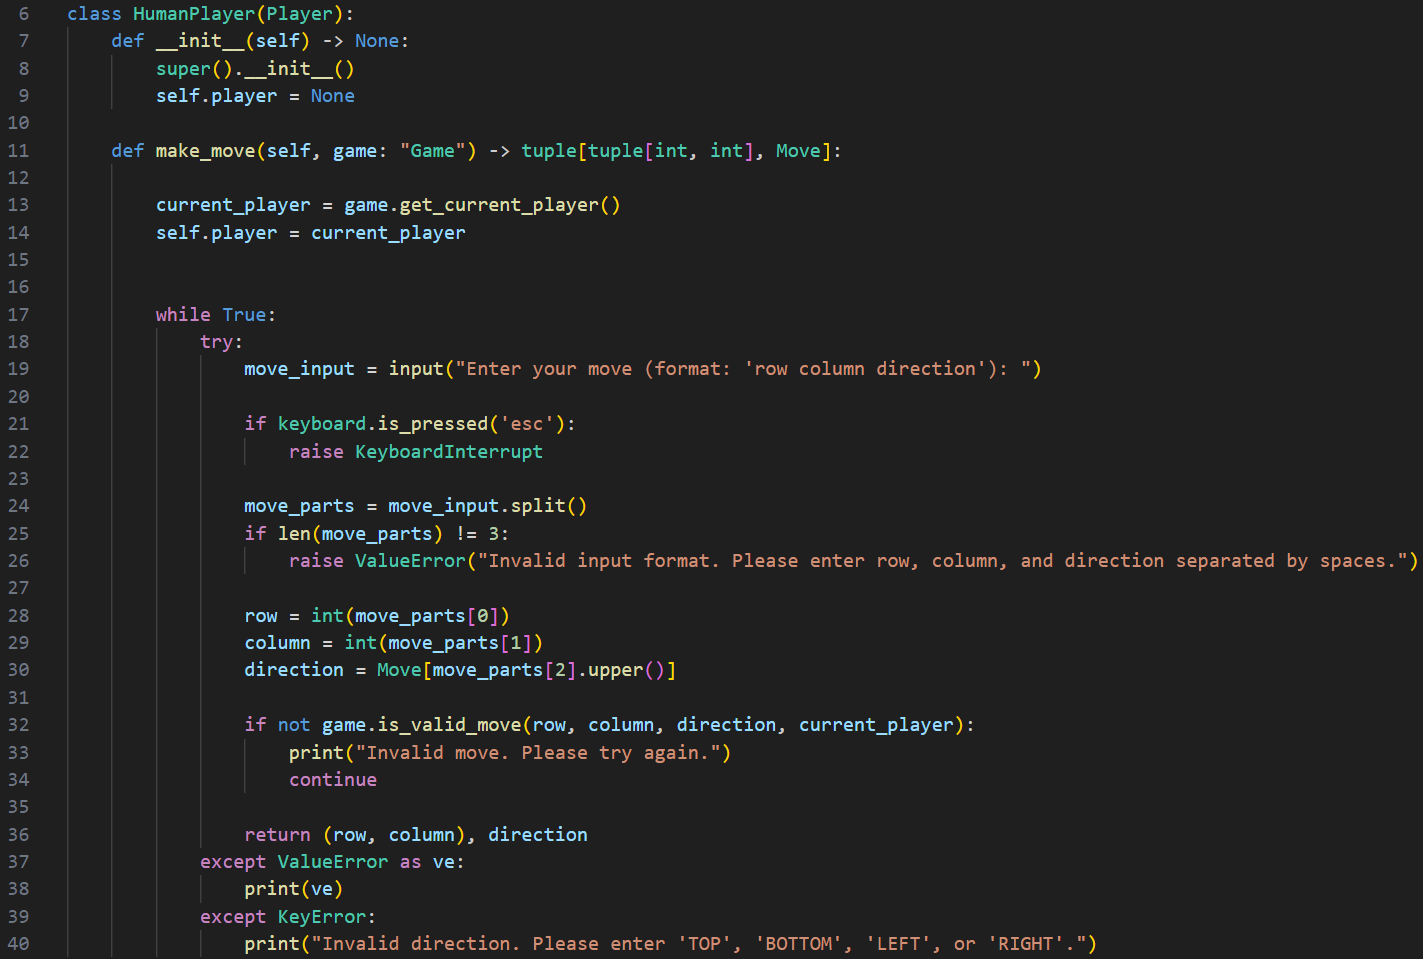
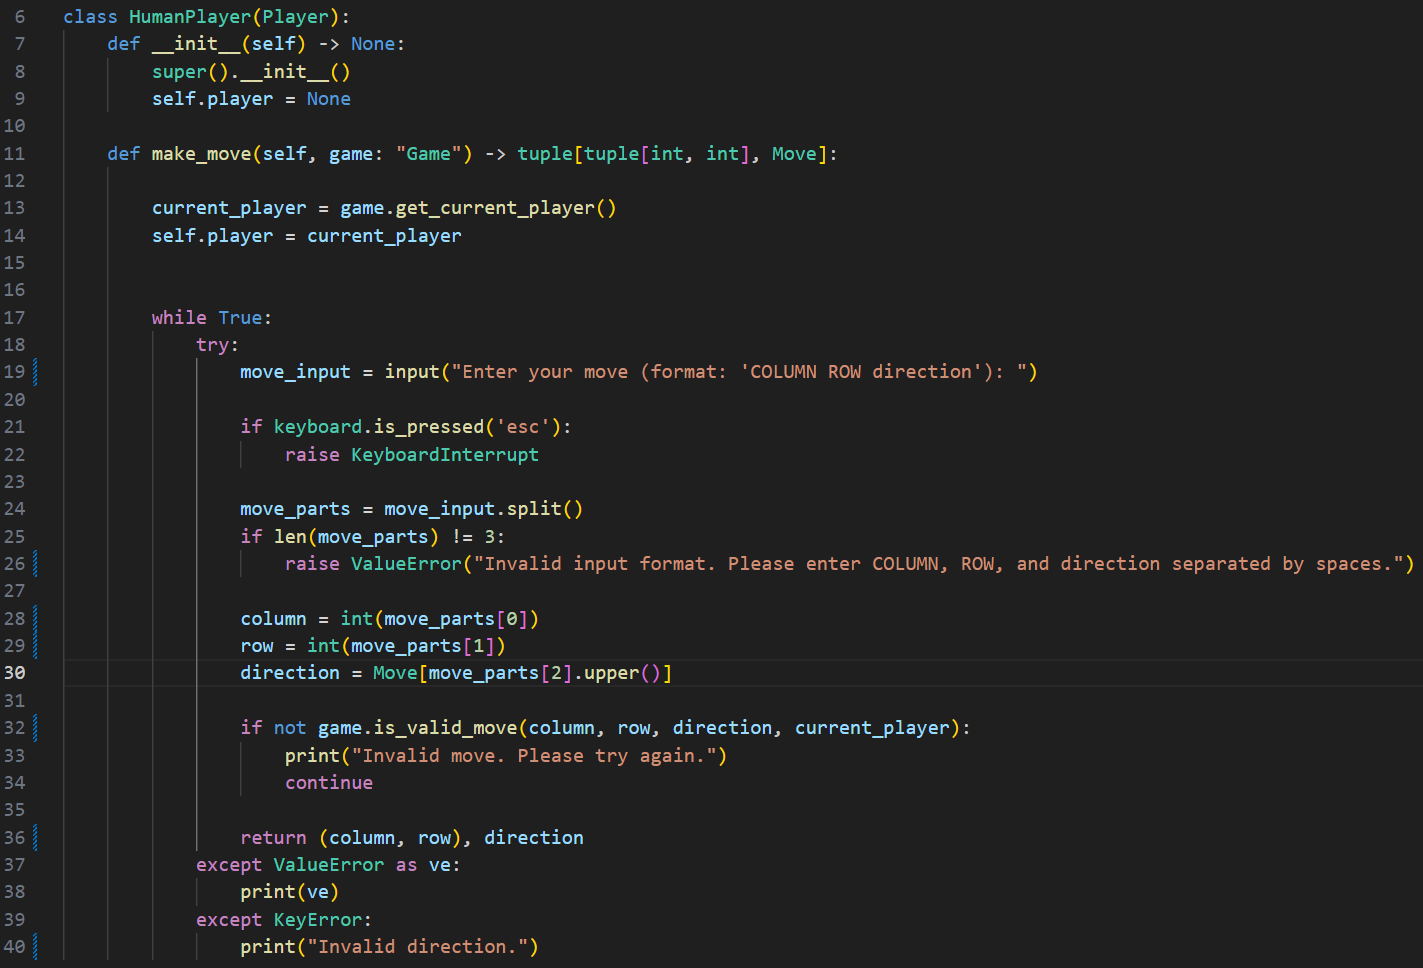
fix interface for playing

diff --git a/QUIXO/game2.py b/QUIXO/game2.py
@@ -2,6 +2,14 @@ from game import Move, Game, Player
 from copy import deepcopy
 from helping_functions import get_all_legal_moves
 
+# ANSI escape codes for colors
+GREEN = '\033[92m'  # Green color
+RED = '\033[91m'  # Red color
+RESET = '\033[0m'  # Reset color to default
+
+X_SYMBOL = 'X'  # X symbol
+O_SYMBOL = 'O'  # O symbol
+
 class Game2(Game):
     def __init__(self, board, current_player) -> None:
         super().__init__()
@@ -16,15 +24,31 @@ class Game2(Game):
         return Game2(board, self.current_player_idx)
     
     def print_board(self):
-        '''Prints the board. -1 are neutral pieces, 0 are pieces of player 0, 1 pieces of player 1'''
+        '''Prints the board with coordinates. -1 are neutral pieces, 0 are pieces of player 0, 1 pieces of player 1'''
+
+        # Print column numbers
+        print(" ", end=" ")
+        for x in range(len(self._board)):
+            print(x, end=" ")
+        print()  # New line
+
+        row_count = 0
+
         for row in self._board:
+            
+            # Print row number
+            print(row_count, end=" ")
+            row_count += 1
+
             for cell in row:
                 if cell == -1:
                     print("-", end=" ")
                 elif cell == 0:
-                    print("X", end=" ")
+                    # Print the X symbol in red
+                    print(RED+X_SYMBOL+RESET, end=" ")
                 elif cell == 1:
-                    print("O", end=" ")
+                    # Print the O symbol in green
+                    print(GREEN+O_SYMBOL+RESET, end=" ")
             print()  # Print a new line after each row
 
     def play(self, player1: Player, player2: Player) -> int:
@@ -42,9 +66,11 @@ class Game2(Game):
             while not ok:
                 from_pos, slide = players[self.current_player_idx].make_move(
                     self)
+                
                 ok = self.move(from_pos, slide, self.current_player_idx)
 
                 if ok:
+                    print(from_pos, slide)
                     self.print_board()
                     print()
 

diff --git a/QUIXO/human_player.py b/QUIXO/human_player.py
@@ -16,25 +16,25 @@ class HumanPlayer(Player):
 
         while True:
             try:
-                move_input = input("Enter your move (format: 'row column direction'): ")
+                move_input = input("Enter your move (format: 'COLUMN ROW direction'): ")
 
                 if keyboard.is_pressed('esc'):
                     raise KeyboardInterrupt
 
                 move_parts = move_input.split()
                 if len(move_parts) != 3:
-                    raise ValueError("Invalid input format. Please enter row, column, and direction separated by spaces.")
+                    raise ValueError("Invalid input format. Please enter COLUMN, ROW, and direction separated by spaces.")
                 
-                row = int(move_parts[0])
-                column = int(move_parts[1])
+                column = int(move_parts[0])
+                row = int(move_parts[1])
                 direction = Move[move_parts[2].upper()]
                 
-                if not game.is_valid_move(row, column, direction, current_player):
+                if not game.is_valid_move(column, row, direction, current_player):
                     print("Invalid move. Please try again.")
                     continue
                 
-                return (row, column), direction
+                return (column, row), direction
             except ValueError as ve:
                 print(ve)
             except KeyError:
-                print("Invalid direction. Please enter 'TOP', 'BOTTOM', 'LEFT', or 'RIGHT'.")
+                print("Invalid direction.")

diff --git a/QUIXO/helping_functions.py b/QUIXO/helping_functions.py
@@ -6,6 +6,7 @@ def get_all_legal_moves(player, board, board_size=5):
     moves = []
 
     # Generate moves for corners, edges , etc of the board
+    
     for x in [0, board_size - 1]:
         for y in [0, board_size - 1]:
 
@@ -41,7 +42,7 @@ def get_all_legal_moves(player, board, board_size=5):
     for x in range(1, board_size - 1):
         for y in [0, board_size - 1]:
 
-            # Check if the move is legal (either an empty spot or the player's piece)
+            # Check if the move is legal
             if board[y][x] == player or board[y][x] == -1:
 
                 moves.append(((x, y), Move.RIGHT))
